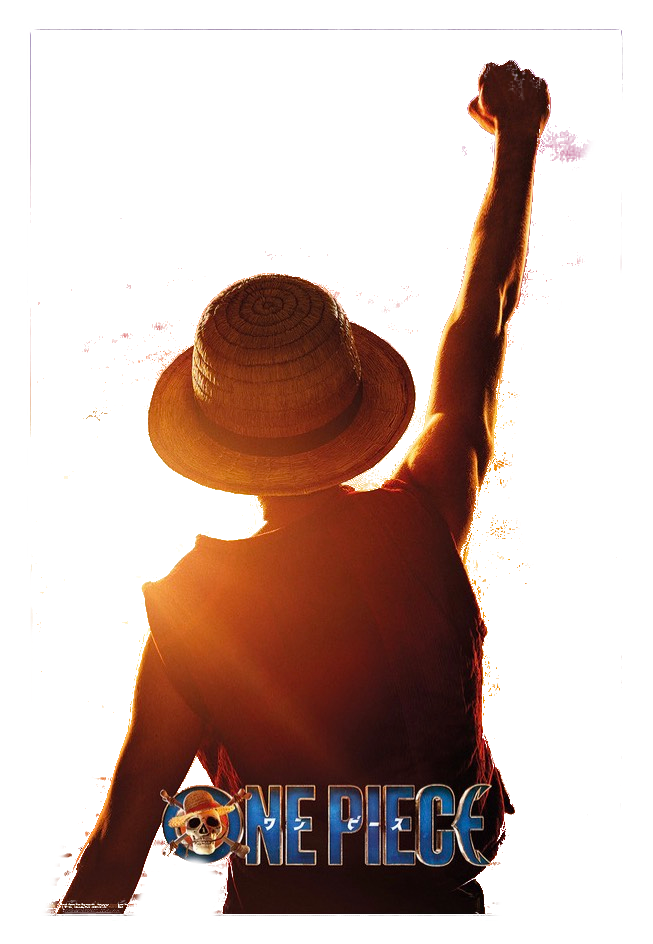
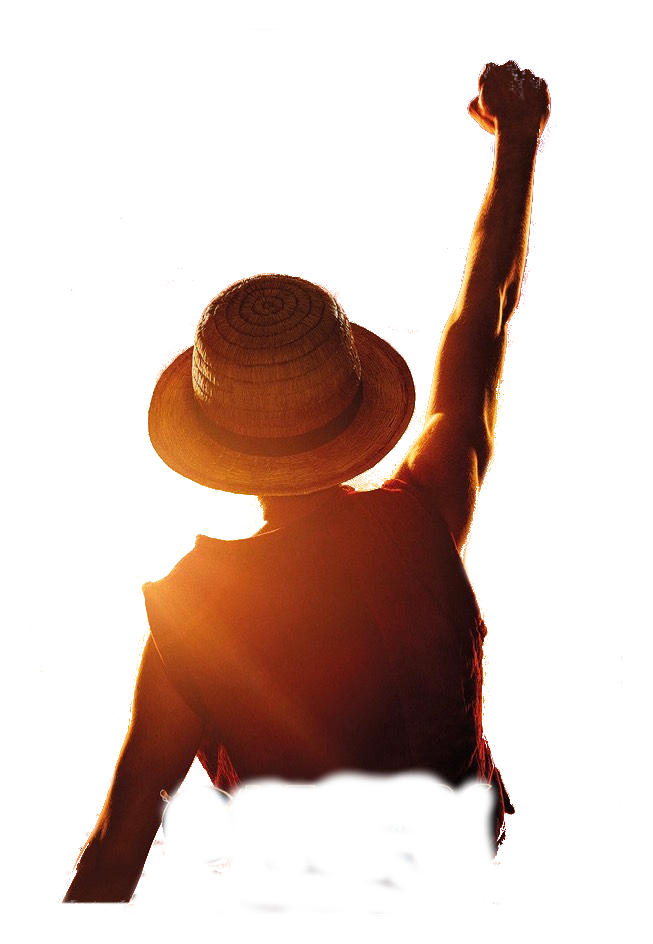
Added new images

diff --git a/src/App.tsx b/src/App.tsx
@@ -23,14 +23,6 @@ function App() {
   const hoverCards: HoverCard[] = [
     {
       bgImgSrc:
-        "https://github.com/ImCitizen13/3d-cover-hover/blob/main/src/assets/onepiece_bg.png?raw=true",
-      logoImgSrc:
-        "https://github.com/ImCitizen13/3d-cover-hover/blob/main/src/assets/onepiece_logo.png?raw=true",
-      fgImgSrc:
-        "https://github.com/ImCitizen13/3d-cover-hover/blob/main/src/assets/onepiece_fg.png?raw=true",
-    },
-    {
-      bgImgSrc:
         "https://github.com/ImCitizen13/3d-cover-hover/blob/main/src/assets/tyrion_bg.jpeg?raw=true",
       logoImgSrc:
         "https://github.com/ImCitizen13/3d-cover-hover/blob/main/src/assets/tyrion_logo.png?raw=true",
@@ -39,7 +31,7 @@ function App() {
     },
     {
       bgImgSrc:
-        "https://github.com/ImCitizen13/3d-cover-hover/blob/main/src/assets/op_bg.jpeg?raw=true",
+        "https://github.com/ImCitizen13/3d-cover-hover/blob/main/src/assets/op_bg.jpg?raw=true",
       logoImgSrc:
         "https://github.com/ImCitizen13/3d-cover-hover/blob/main/src/assets/onepiece_logo.png?raw=true",
       fgImgSrc:
